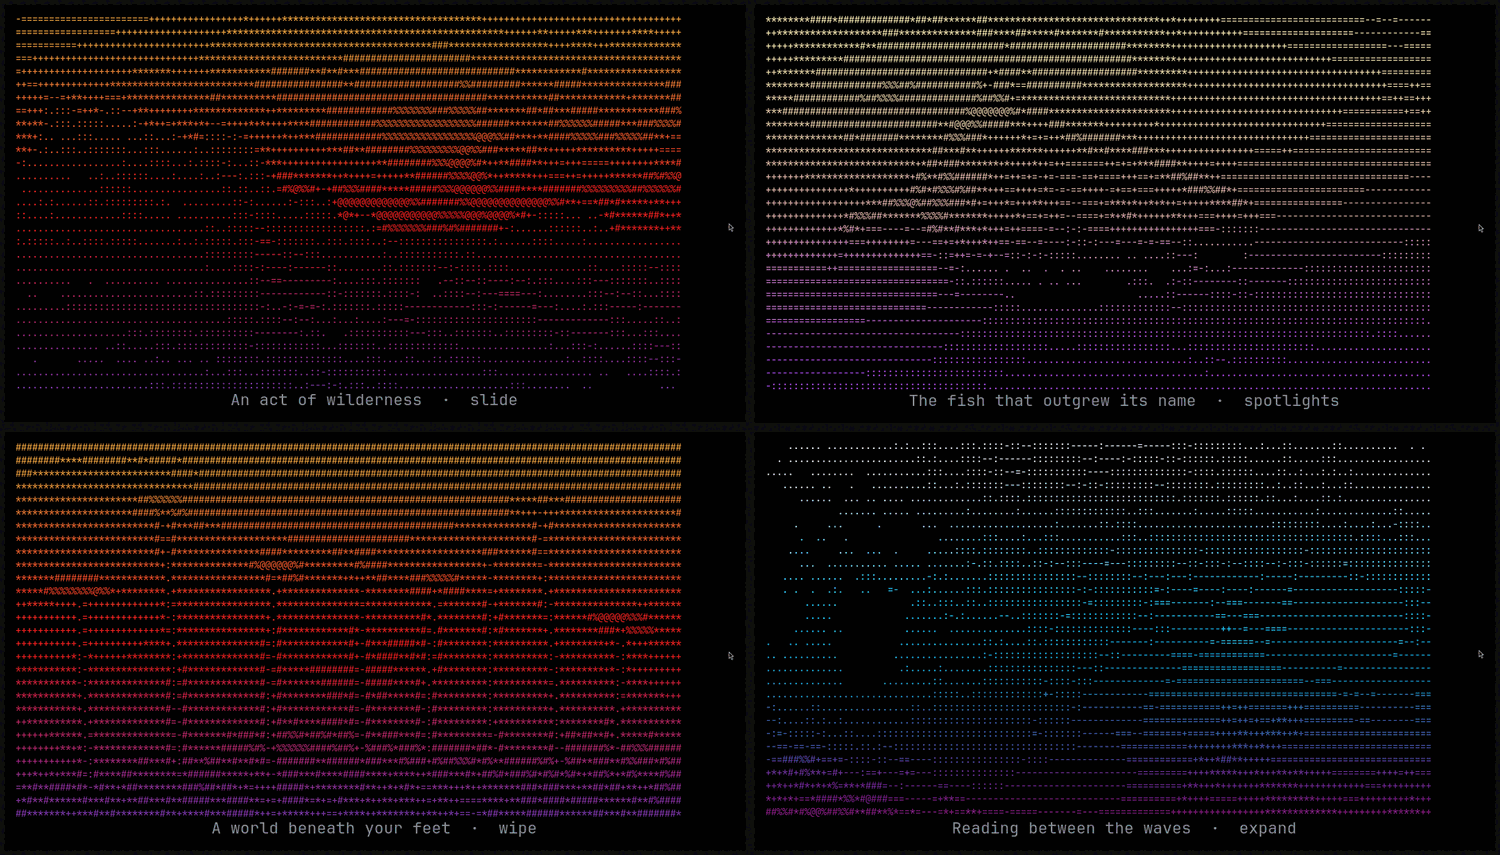
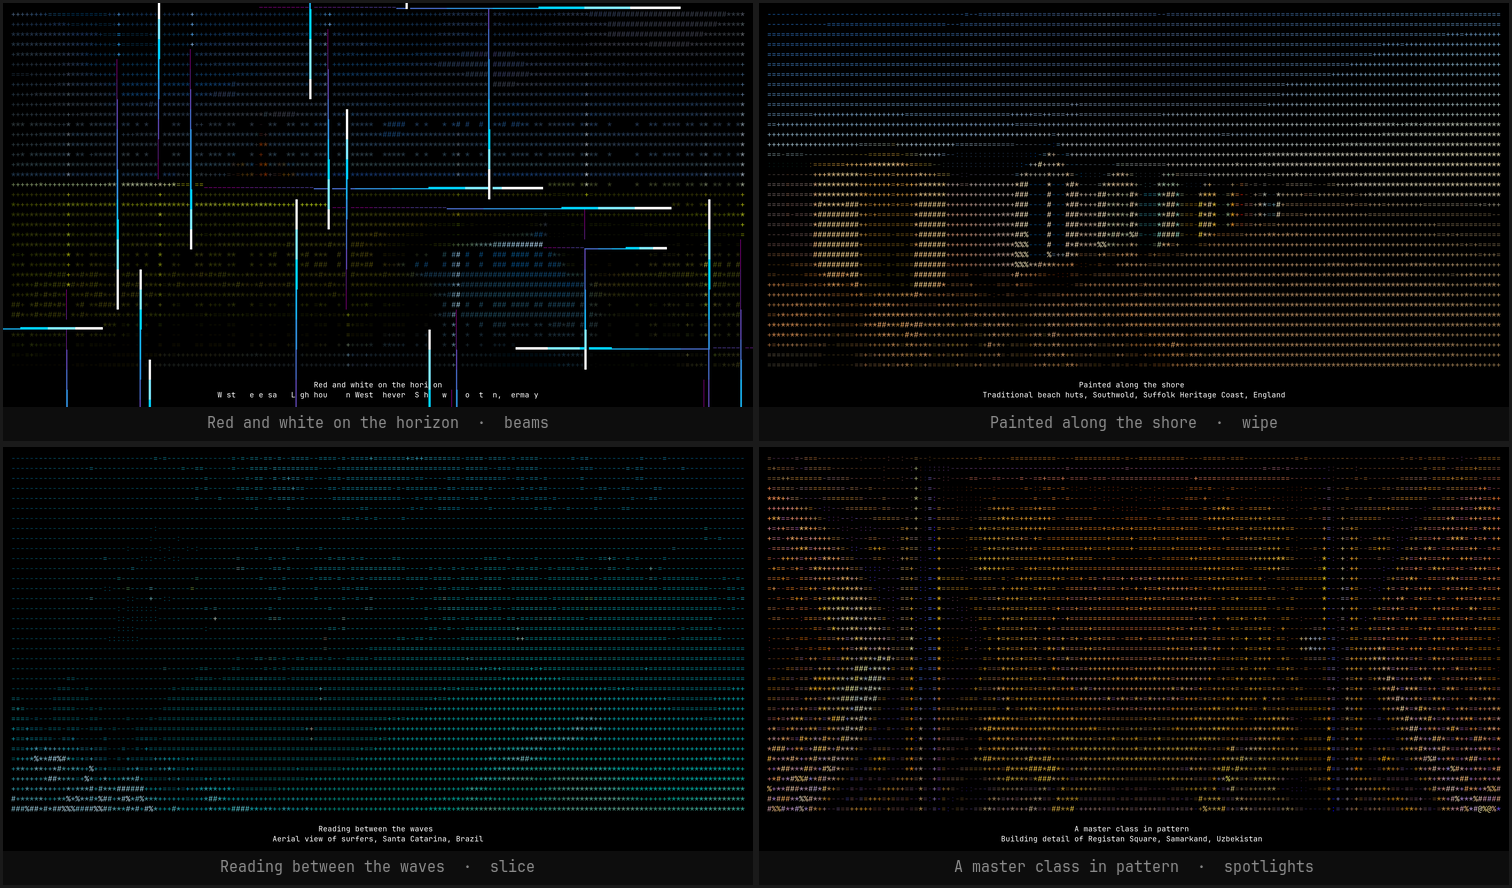
Taller panel on tall screens; new screenshots (v0.5.2)

Changed region(s): [[0.0, 0.517, 1.0, 1.0], [0.0, 0.0, 1.0, 0.4865]]

diff --git a/Panel.qml b/Panel.qml
@@ -131,7 +131,7 @@ Panel {
     centerOnBar: true
     focusTarget: keyCatcher
     contentWidth: panel.fittedContentWidth(Style.space(440))
-    contentHeight: panel.fittedContentHeight(column.implicitHeight, Style.space(960))
+    contentHeight: panel.fittedContentHeight(column.implicitHeight, Style.space(1500))
 
     PanelKeyCatcher {
       id: keyCatcher

diff --git a/README.md b/README.md
@@ -145,10 +145,11 @@ the same random `ttfx` effects as always — the vibe is unchanged, the picture 
 not. This is **on by default**; **Use as screensaver** in the panel turns it off
 and puts your old art back.
 
-<img src="docs/screensaver.png" alt="Four screensavers: a canyon, a whale shark, a forest floor and a shoreline, each drawn as ASCII art and coloured by a different ttfx effect" width="920">
+<img src="docs/screensaver.png" alt="Four screensavers in the depth style: a lighthouse on a marsh mid-way through the beams effect, beach huts on a shore, surfers seen from above, and a tiled ceiling in Samarkand, each drawn in the photograph's own colours with its title and place underneath" width="920">
 
-<sub>Four mornings, four pictures, four of the random effects `ttfx` picks from.
-These are real screenshots of the running screensaver, not mockups.</sub>
+<sub>Four pictures, four of the random effects `ttfx` picks from, in the `depth`
+style with captions. Real screenshots of `ttfx` running the plugin's art in
+Omarchy's screensaver terminal with the colour flag on, not mockups.</sub>
 
 Omarchy's screensaver is a single plain-text file. `omarchy-screensaver` loops
 

diff --git a/CHANGELOG.md b/CHANGELOG.md
@@ -4,6 +4,15 @@ All notable changes to this project are documented here. The format follows
 [Keep a Changelog](https://keepachangelog.com/en/1.1.0/) and the project uses
 [Semantic Versioning](https://semver.org/).
 
+## [0.5.2] - 2026-09-04
+
+### Changed
+
+- The panel may grow taller on screens with room for it, so the screensaver
+  settings added in 0.5.0 are not pushed below the fold.
+- New screenshots: the screensaver in colour with depth and captions, and the
+  panel with the new controls.
+
 ## [0.5.1] - 2026-09-04
 
 ### Fixed
